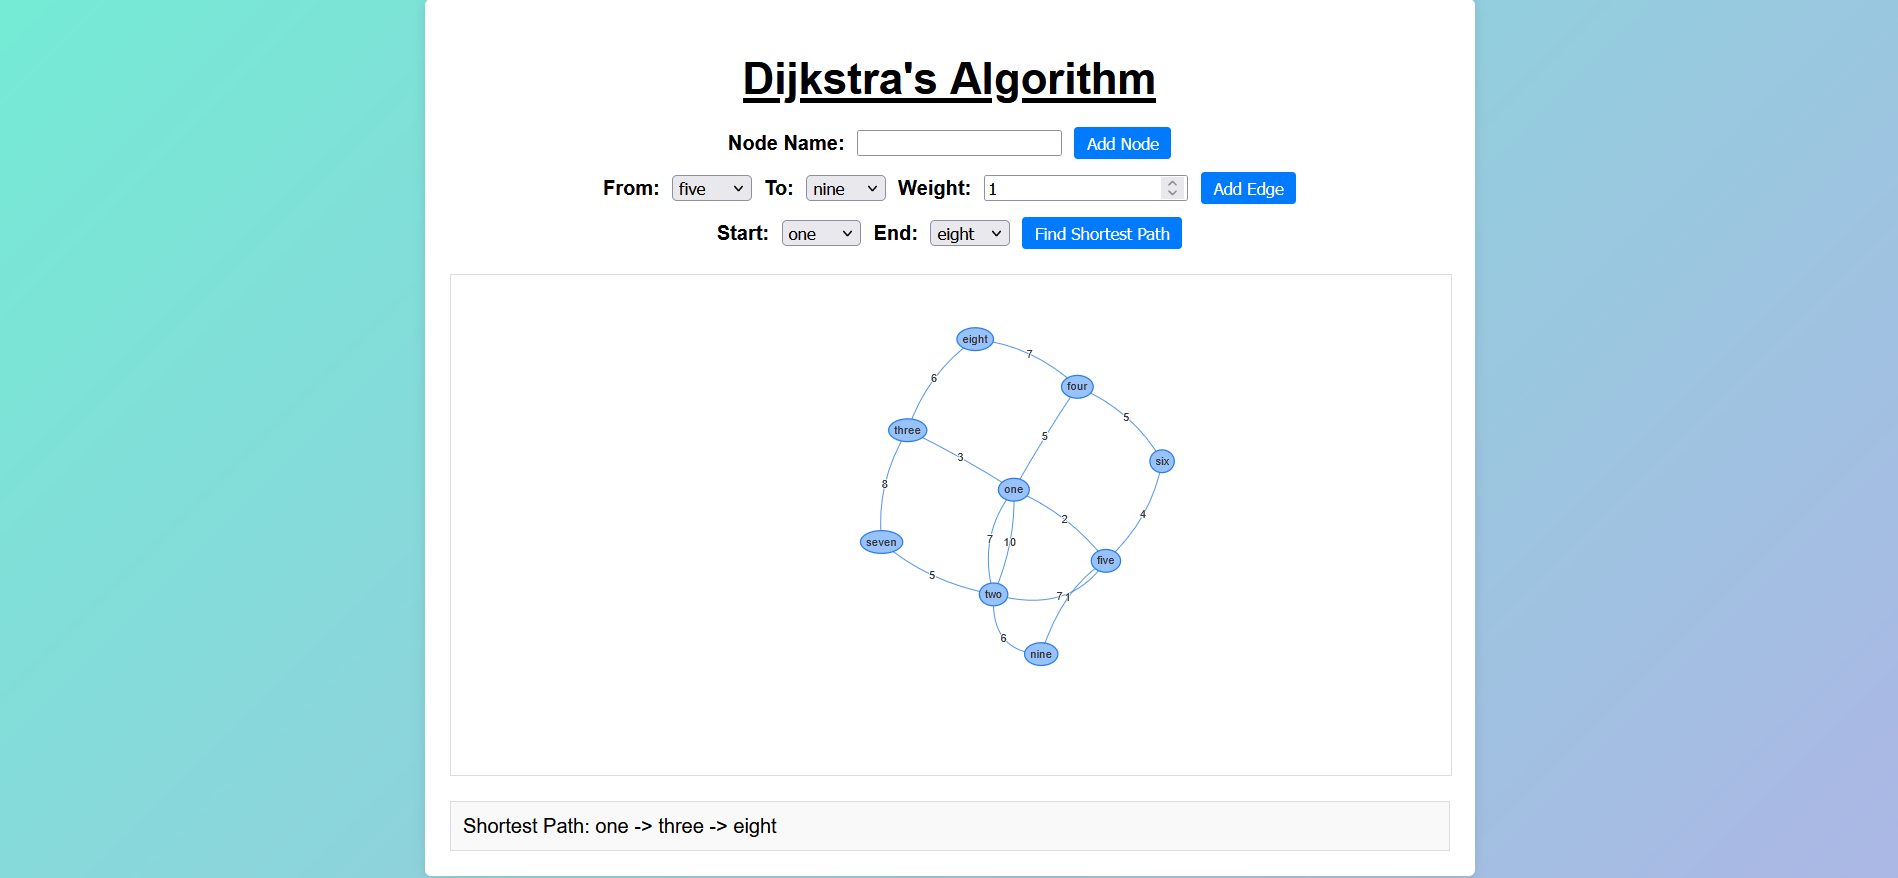
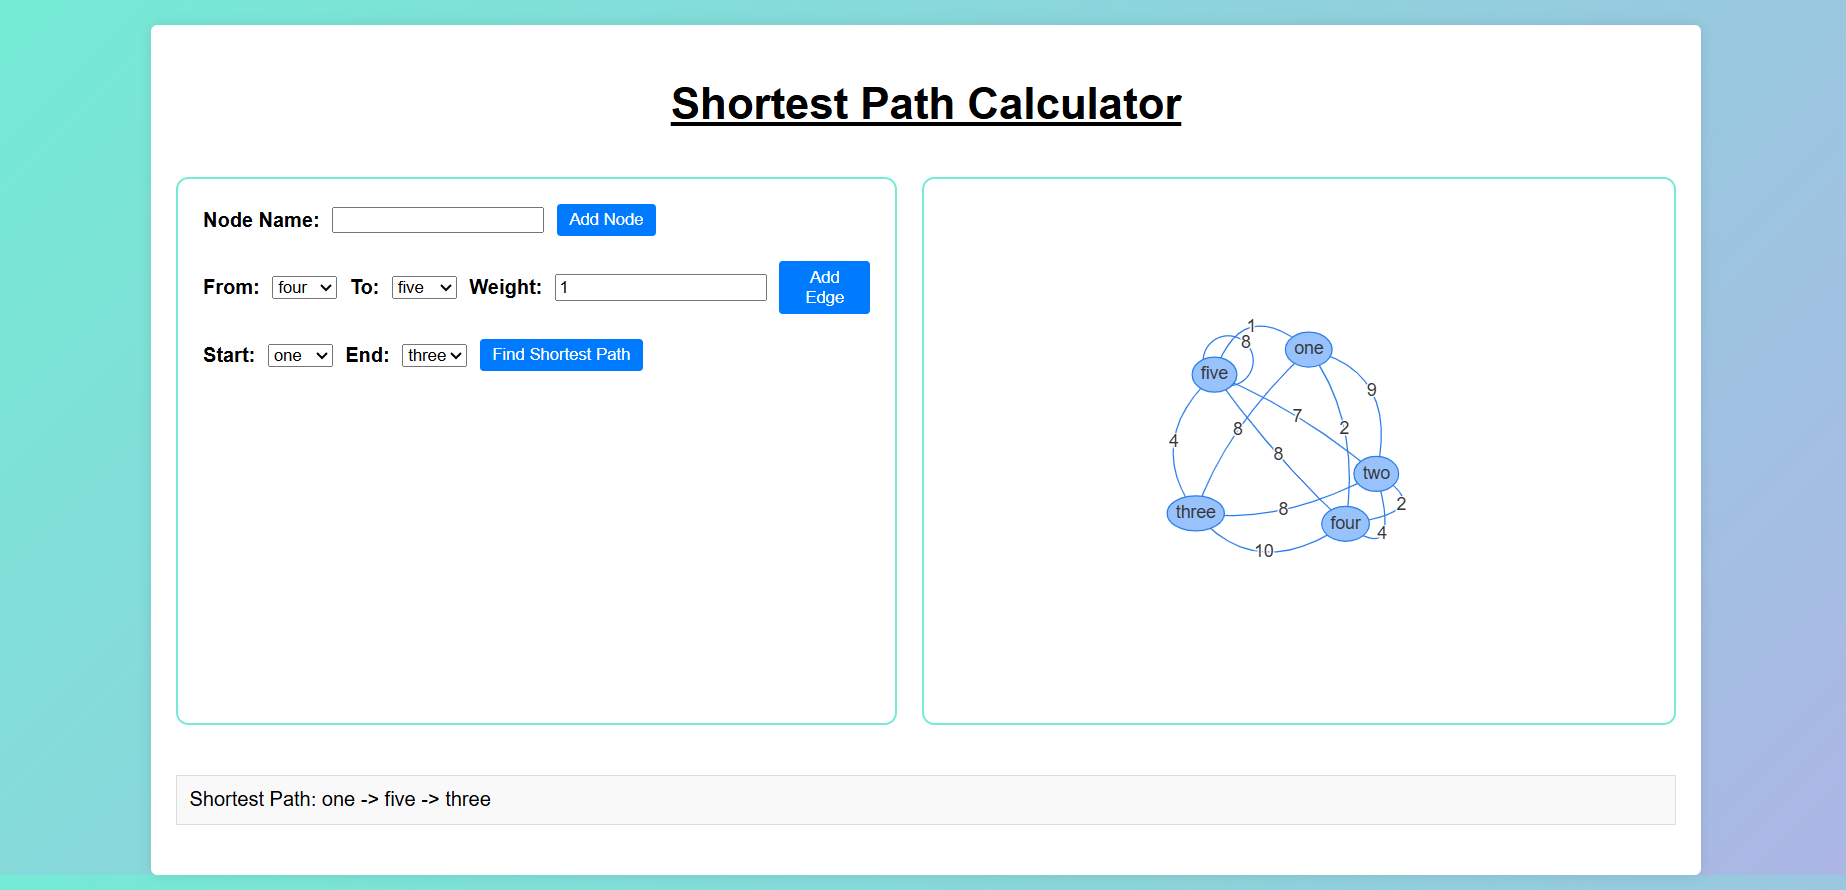
Updated structure of the website

diff --git a/Calculators/Shortest-Path-Calculator/index.html b/Calculators/Shortest-Path-Calculator/index.html
@@ -3,38 +3,40 @@
 <head>
     <meta charset="UTF-8">
     <meta name="viewport" content="width=device-width, initial-scale=1.0">
-    <title>Dijkstra's Algorithm</title>
+    <title>Shortest Path Calculator</title>
     <link rel="stylesheet" href="style.css">
     <script type="text/javascript" src="https://unpkg.com/vis-network/standalone/umd/vis-network.min.js"></script>
 </head>
 <body>
     <div id="app">
-        <h1>Dijkstra's Algorithm</h1>
-        <div id="controls">
-            <div>
-                <label for="node-name">Node Name:</label>
-                <input type="text" id="node-name">
-                <button onclick="addNode()">Add Node</button>
+        <h1>Shortest Path Calculator</h1>
+        <div class="grid-container">
+            <div id="controls">
+                <div>
+                    <label for="node-name">Node Name:</label>
+                    <input type="text" id="node-name">
+                    <button onclick="addNode()">Add Node</button>
+                </div>
+                <div>
+                    <label for="edge-from">From:</label>
+                    <select id="edge-from"></select>
+                    <label for="edge-to">To:</label>
+                    <select id="edge-to"></select>
+                    <label for="edge-weight">Weight:</label>
+                    <input type="number" id="edge-weight" min="1" value="1">
+                    <button onclick="addEdge()">Add Edge</button>
+                </div>
+                <div>
+                    <label for="start-node">Start:</label>
+                    <select id="start-node"></select>
+                    <label for="end-node">End:</label>
+                    <select id="end-node"></select>
+                    <button onclick="findShortestPath()">Find Shortest Path</button>
+                </div>
             </div>
-            <div>
-                <label for="edge-from">From:</label>
-                <select id="edge-from"></select>
-                <label for="edge-to">To:</label>
-                <select id="edge-to"></select>
-                <label for="edge-weight">Weight:</label>
-                <input type="number" id="edge-weight" min="1" value="1">
-                <button onclick="addEdge()">Add Edge</button>
-            </div>
-            <div>
-                <label for="start-node">Start:</label>
-                <select id="start-node"></select>
-                <label for="end-node">End:</label>
-                <select id="end-node"></select>
-                <button onclick="findShortestPath()">Find Shortest Path</button>
-            </div>
+            <div id="network"></div>
+            <div id="output"></div>
         </div>
-        <div id="network"></div>
-        <div id="output"></div>
     </div>
     <script src="script.js"></script>
 </body>

diff --git a/Calculators/Shortest-Path-Calculator/style.css b/Calculators/Shortest-Path-Calculator/style.css
@@ -1,9 +1,8 @@
 body {
     font-family: Arial, sans-serif;
-    /* background-color: #f4f4f4; */
     background: linear-gradient(135deg, #74ebd5, #ACB6E5);
     margin: 0;
-    padding: 20px;
+    padding-top: 20px;
 }
 
 h1 {
@@ -14,19 +13,32 @@ h1 {
 }
 
 #app {
-    max-width: 800px;
+    max-width: 1200px;
     margin: auto;
     background: white;
     padding: 20px;
     border-radius: 5px;
     box-shadow: 0 0 10px rgba(0, 0, 0, 0.1);
+    display: grid;
+    grid-template-rows: auto 1fr auto;
+    gap: 20px;
+}
+
+.grid-container {
+    display: grid;
+    grid-template-columns: 1fr 1fr;
+    gap: 20px;
+    height: 100%;
 }
 
 #controls {
     display: flex;
     flex-direction: column;
-    align-items: center;
-    gap: 10px;
+    align-items: flex-start;
+    padding: 20px;
+    gap: 20px;
+    border: 2px solid #74ebd5;
+    border-radius: 10px;
 }
 
 #controls div {
@@ -46,22 +58,28 @@ button {
     border: none;
     border-radius: 3px;
     cursor: pointer;
+    transition: background 0.3s ease, transform 0.3s ease;
 }
 
 button:hover {
     background: #0056b3;
+    transform: translateY(-2px);
 }
 
 #network {
-    width: 100%;
-    height: 400px;
-    border: 1px solid #ddd;
-    margin-top: 20px;
+    width: 600px;
+    height: 435px;
+    border: 2px solid #74ebd5;
+    border-radius: 10px;
 }
 
 #output {
-    margin-top: 20px;
-    padding: 10px;
-    border: 1px solid #ddd;
+    grid-column: span 2;
+    margin-top: 15px;
+    padding: 15px;
+    width: 350px;
+    height: 20px;
+    margin: auto;
+    border: 2px solid #74ebd5;
     background: #f9f9f9;
 }

diff --git a/Calculators/Shortest-Path-Calculator/README.md b/Calculators/Shortest-Path-Calculator/README.md
@@ -4,6 +4,13 @@
 
 It is a simple calculator which calculates the shortest path between two points. It uses the `Dijkstra's Algorithm` to calculate the shortest path. You can add the nodes and edges between them and then calculate the shortest path between them. You can make your own graph and calculate the shortest path between any two nodes.
 
+## How to use :-
+
+- First, you have to add the nodes by clicking on the `Add Node` button. (If node is not visible to you, then scroll in between the output area and set up your node.)
+- Then you have to add the edges between the nodes by clicking on the `Add Edge` button.
+- After adding the nodes and edges, you have to select the source and destination nodes.
+- Then click on the `Calculate` button to calculate the shortest path between the source and destination nodes.
+
 ## Tech Stacks :-
 
 - HTML
@@ -12,4 +19,4 @@ It is a simple calculator which calculates the shortest path between two points.
 
 ## Screenshots :-
 
-![sample](assets/image.png)
+![Sample](assets/image.png)
